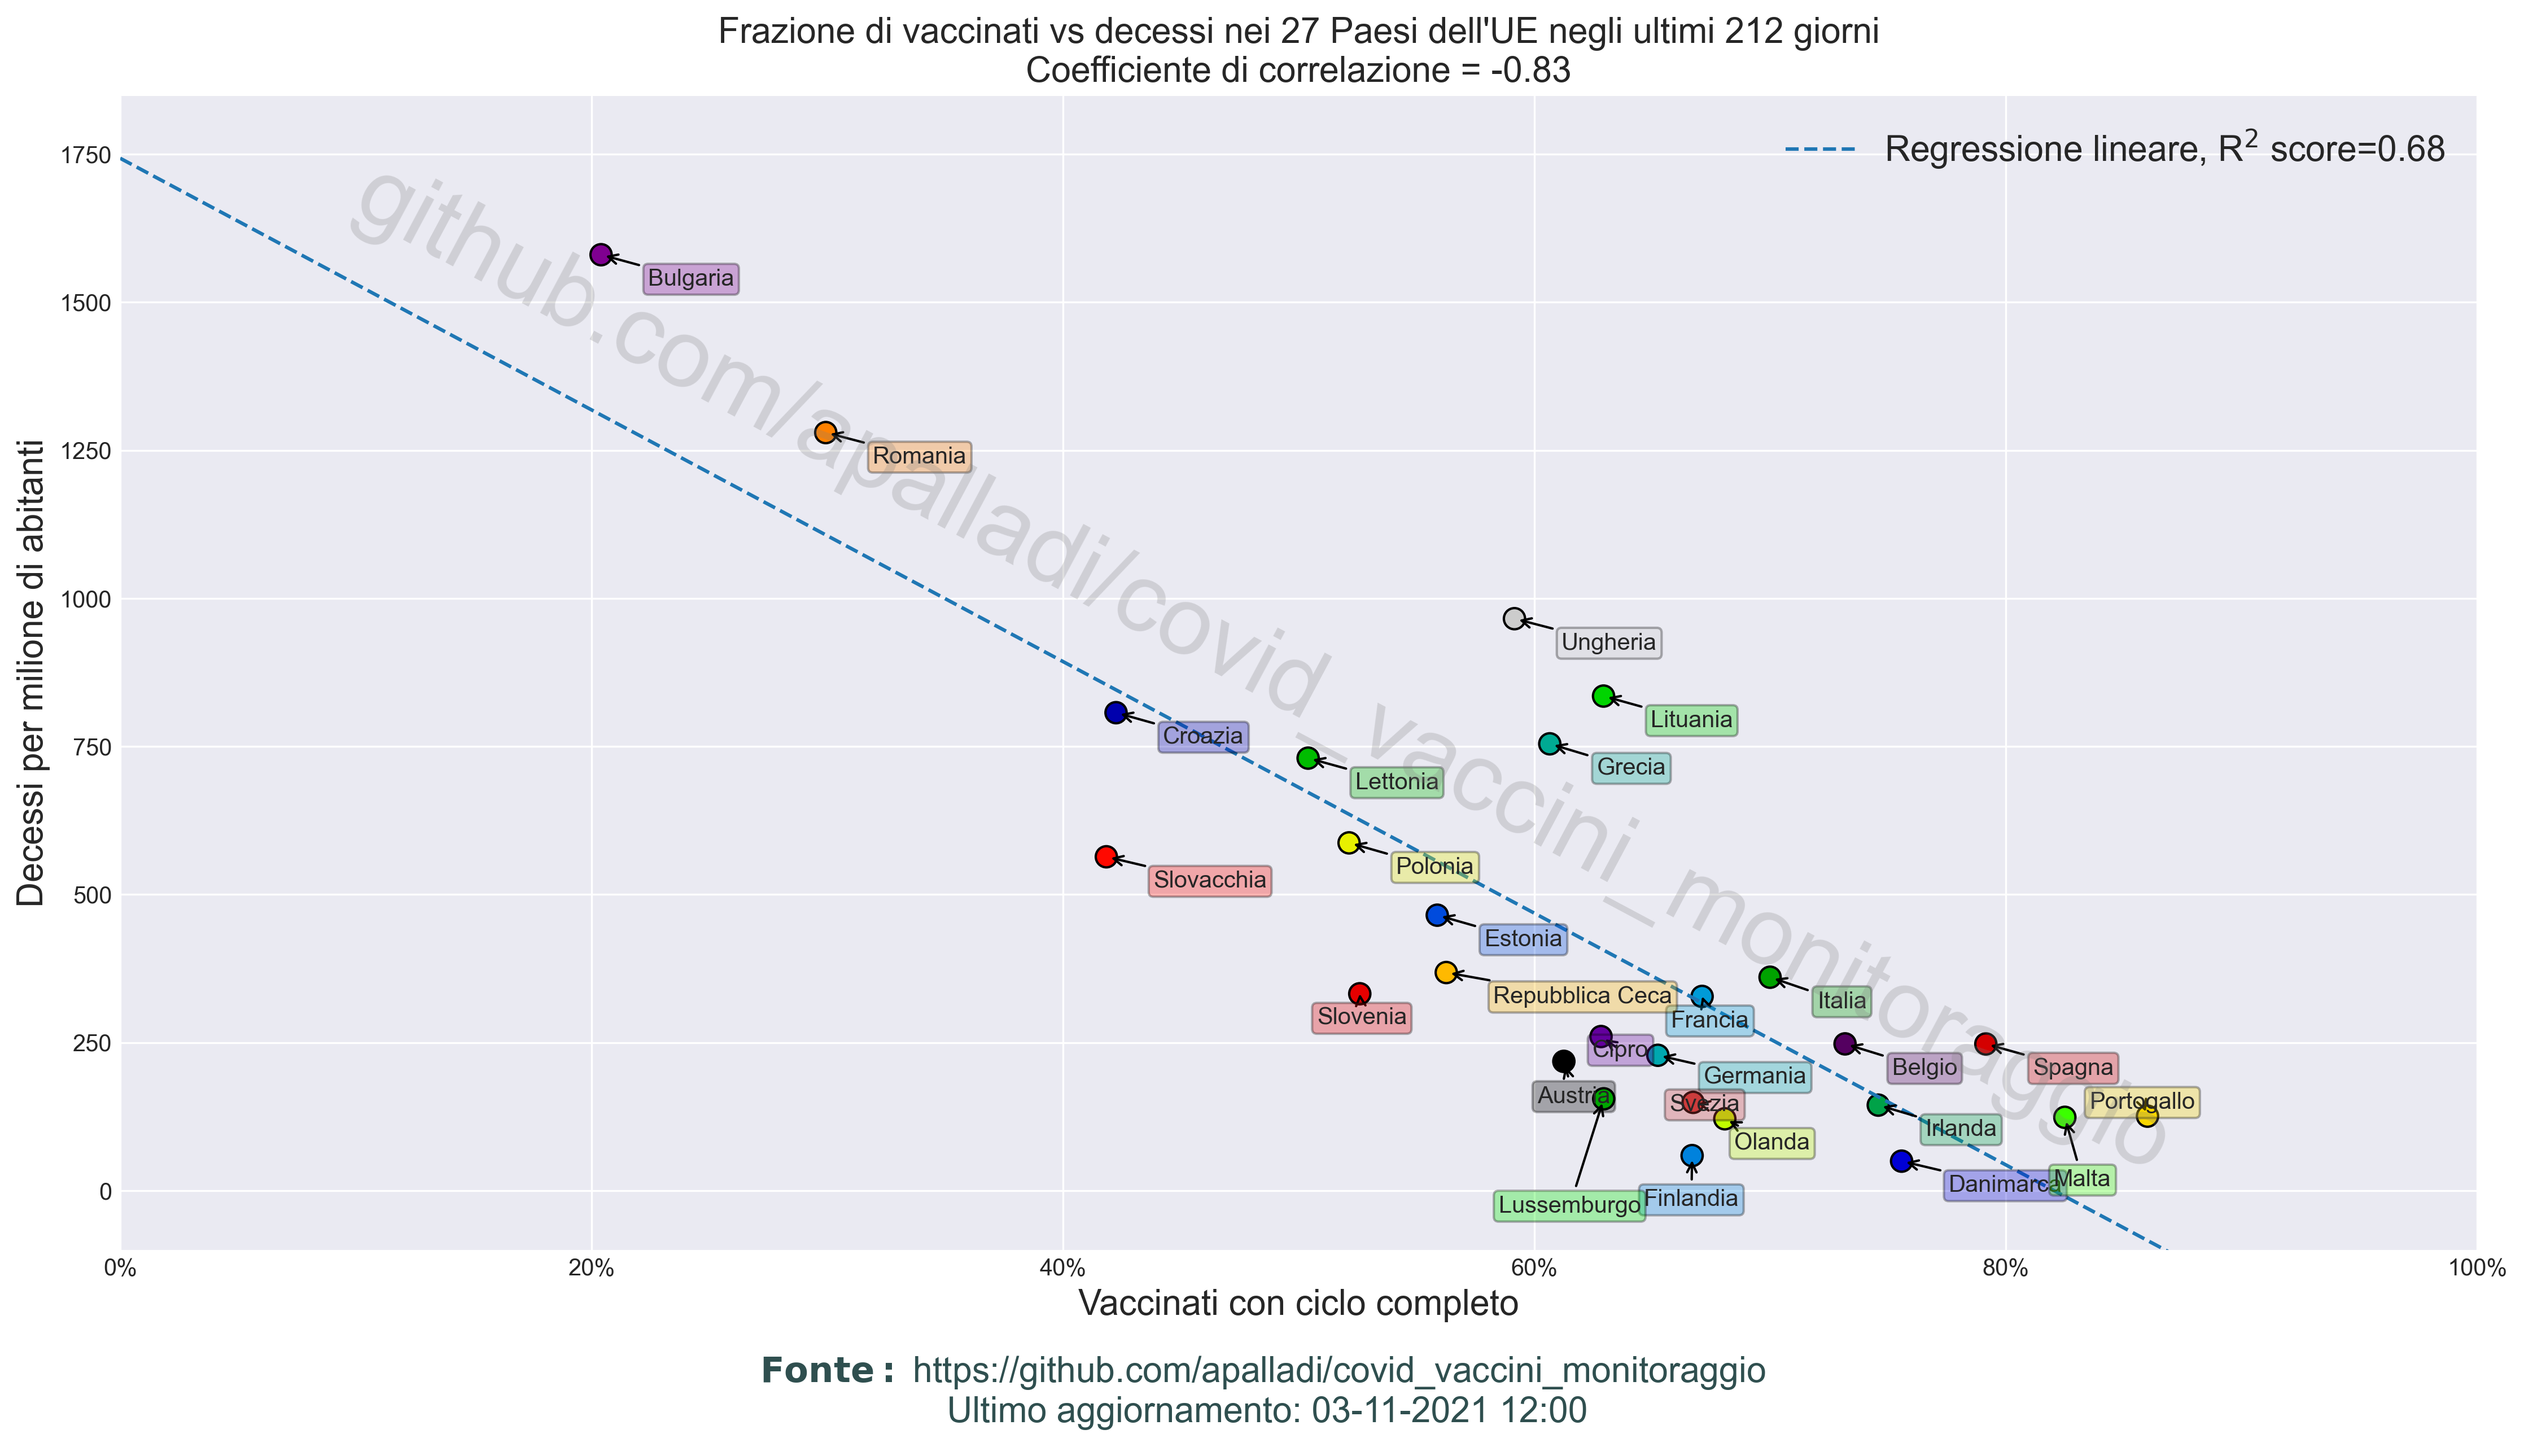
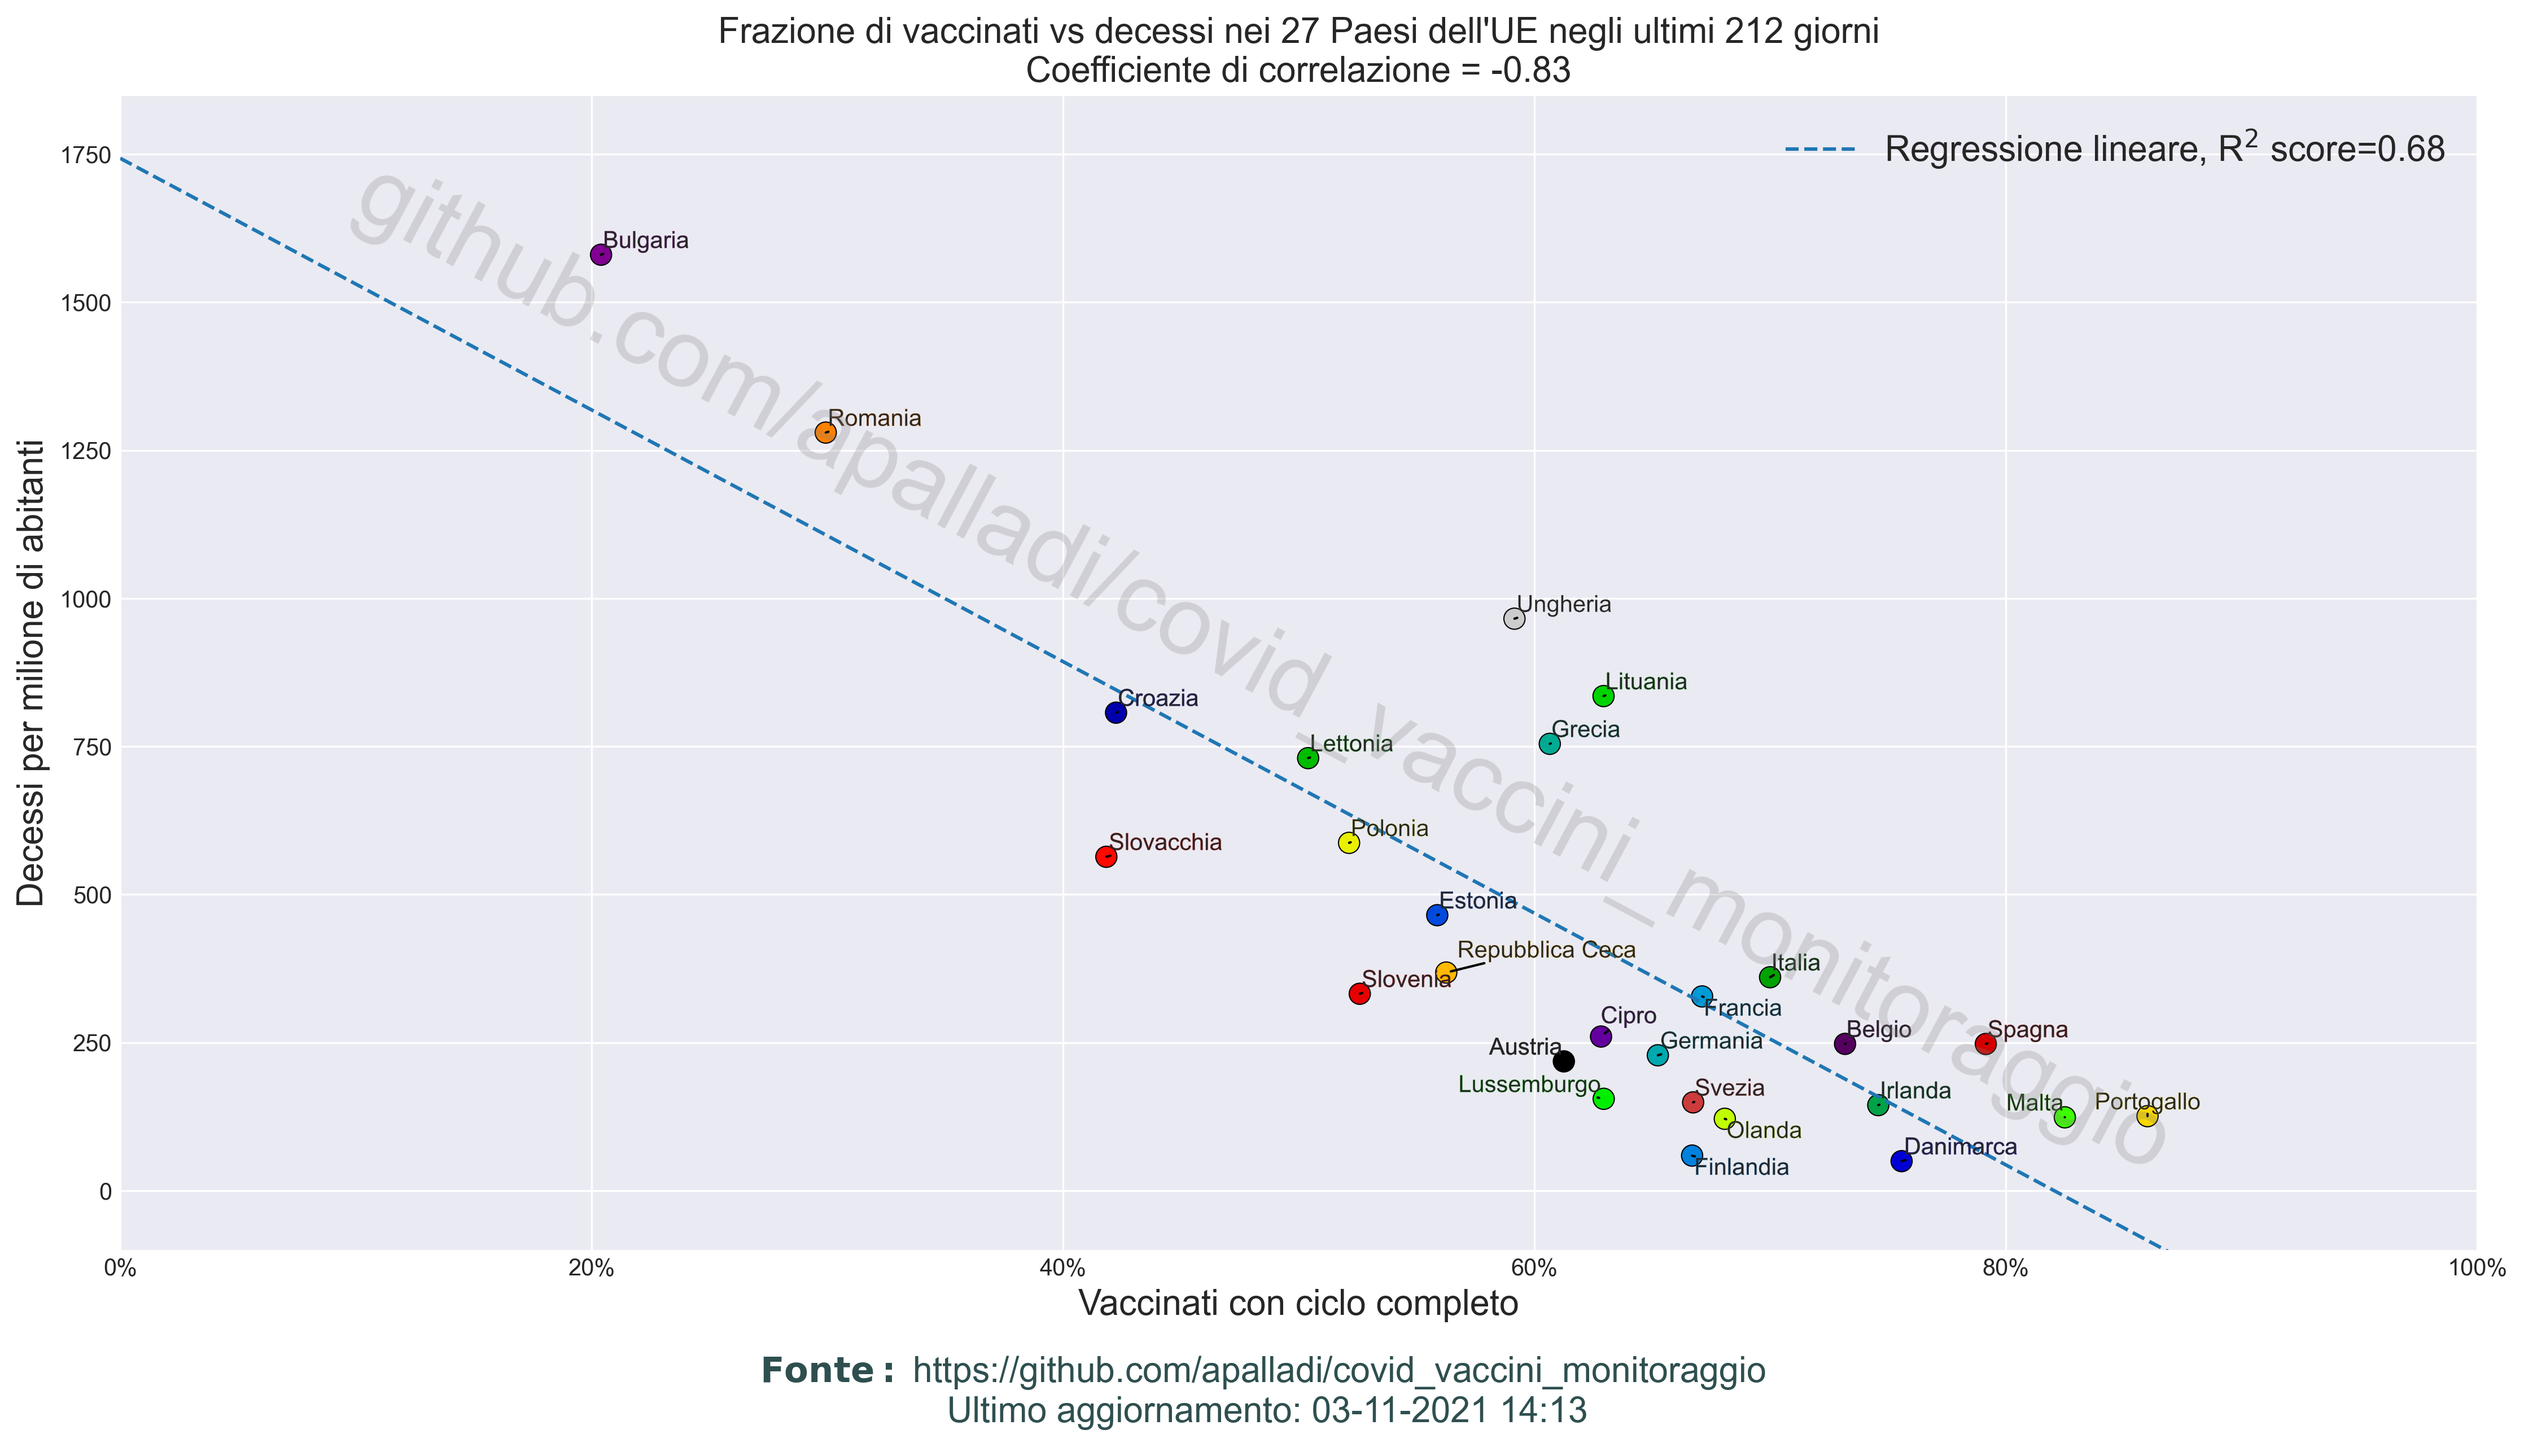
confronti_eu.py: migliora codice scatter plot

diff --git a/scripts/confronti_europei.py b/scripts/confronti_europei.py
@@ -3,6 +3,7 @@
 import locale
 from os import chdir, path
 
+import matplotlib.patheffects as path_effects
 import matplotlib.pyplot as plt
 import numpy as np
 import pandas as pd
@@ -258,21 +259,22 @@ def plot_correlazione_vaccini_decessi(vacc_res_2021, dec_res_2021, x_grid, y_gri
     fig = plt.figure(figsize=(15, 8))
 
     # scatter plot
-    # genera lista di colori
+    # genera lista di colori e dimensioni
     colors = plt.cm.nipy_spectral(np.linspace(0, 1, len(paesi_eu_ita)))
+    sizes = 3*len(paesi_eu_ita)
     plt.scatter(vacc_res_2021, dec_res_2021, c=colors,
-                edgecolor="black", s=3*len(paesi_eu_ita))
+                edgecolor="black", linewidth=0.5, s=sizes)
 
-    texts = [plt.annotate(paesi_eu_ita[i],
-             xy=(vacc_res_2021[i], dec_res_2021[i]),
-             xytext=(20, -15),
-             textcoords="offset points",
-             bbox=dict(boxstyle='round,pad=0.2', fc=colors[i], alpha=0.3),
-             arrowprops=dict(arrowstyle="->", lw=1.0))
-             for i in range(len(vacc_res_2021))]
+    texts = [plt.text(vacc_res_2021[i],
+             dec_res_2021[i],
+             paesi_eu_ita[i],
+             path_effects=[path_effects.Stroke(linewidth=0.075, foreground=colors[i])])
+             for i in range(len(paesi_eu_ita))]
 
     # fix text overlap
-    adjust_text(texts)
+    adjust_text(texts,
+                expand_text=(1.15, 1.30),
+                arrowprops=dict(arrowstyle="-", lw=1))
 
     # fit plot
     plt.plot(x_grid, y_grid, linestyle="--", label=f"Regressione lineare, R$^2$ score={score}")
